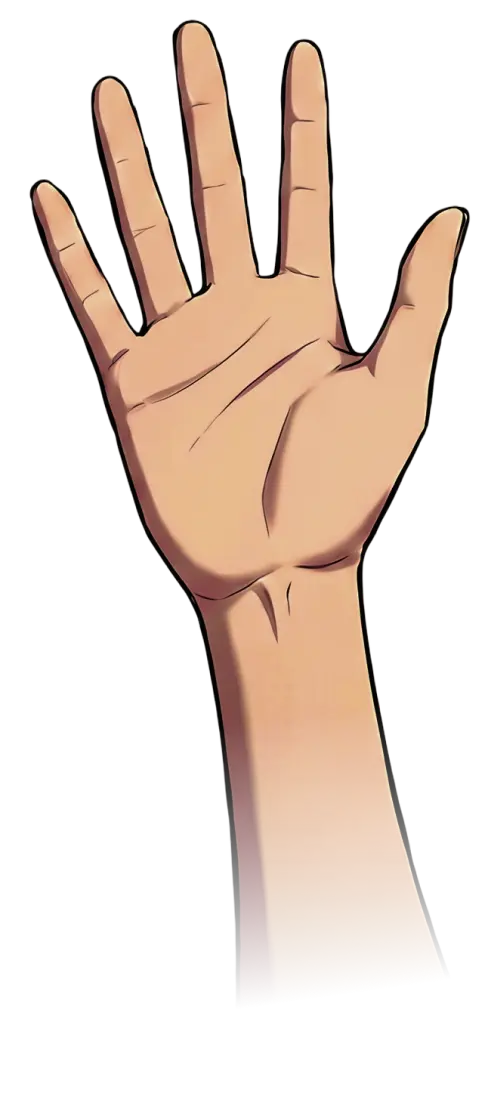
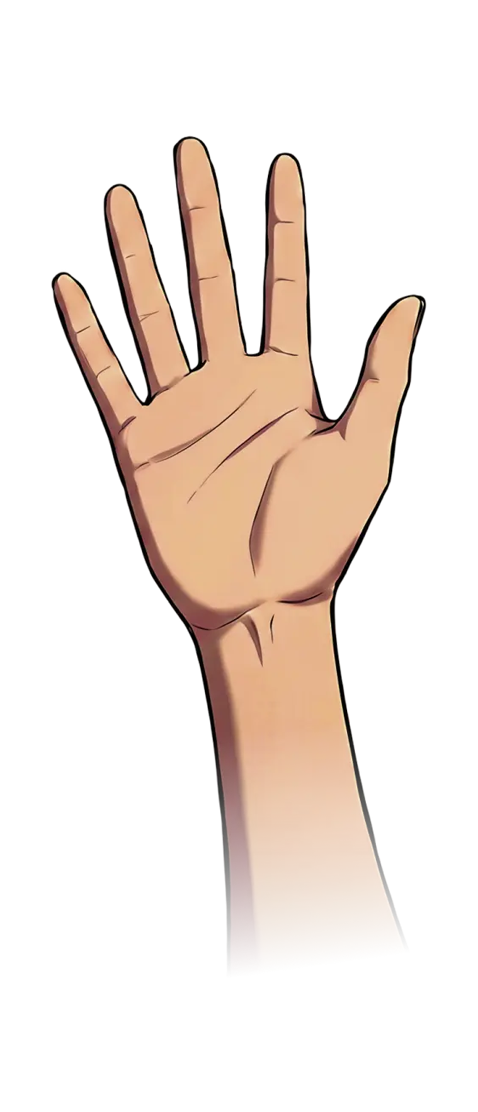
Changed the audio

Changed region(s): [[0.0586, 0.0, 0.9958, 0.8867]]

diff --git a/index.html b/index.html
@@ -199,16 +199,17 @@
 
 <audio id="bgMusic" src="assets/music.mp3" loop playsinline></audio>
 <audio id="winSound" src="assets/win.mp3" playsinline></audio>
+<audio id="winSound2" src="assets/win2.mp3" playsinline></audio>
 <audio id="bubbleSound" src="assets/bubble.mp3" playsinline></audio>
 <audio id="startSound" src="assets/start_sound.mp3" playsinline></audio>
 
 <script>
-// Активний та резервний відео-шари. Свопаються після кожного кросфейду.
 let activeVideo = document.getElementById("bgVideo");
 let standbyVideo = document.getElementById("nextVideoCache");
 
 const bgMusic = document.getElementById("bgMusic");
 const winSound = document.getElementById("winSound");
+const winSound2 = document.getElementById("winSound2");
 const bubbleSound = document.getElementById("bubbleSound");
 const startSound = document.getElementById("startSound");
 
@@ -413,8 +414,14 @@ function play(choice) {
     setTimeout(() => {
       document.getElementById("result").classList.add("show");
       if (!isMuted) {
-        winSound.currentTime = 0;
-        winSound.play();
+        if (round === 0) {
+          winSound.currentTime = 0;
+          winSound.play();
+        } else {
+          winSound2.currentTime = 0;
+          winSound2.play(); 
+          winSound2.volume = 1;
+        }
       }
     }, 600); 
 
@@ -544,6 +551,7 @@ function toggleSound() {
   isMuted = !isMuted;
   bgMusic.muted = isMuted;
   winSound.muted = isMuted;
+  winSound2.muted = isMuted;
   if (bubbleSound) bubbleSound.muted = isMuted;
   if (startSound) startSound.muted = isMuted;
   document.getElementById("muteBtn").textContent = isMuted ? "🔇" : "🔊";